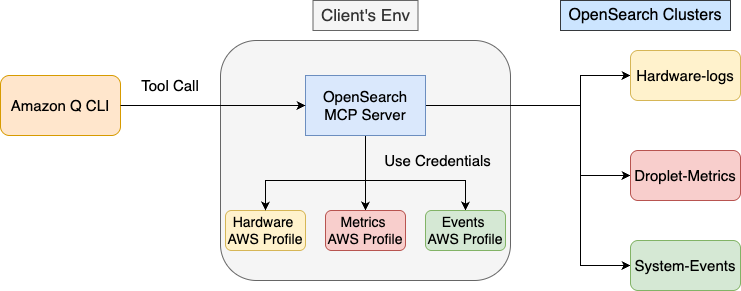
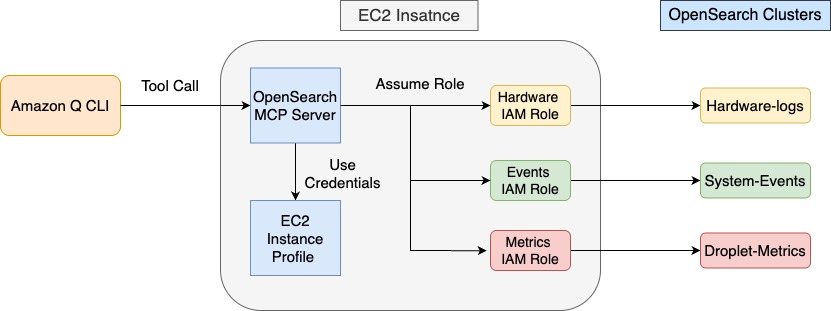
Address comments

diff --git a/_posts/2025-08-18-opensearch-mcp-server-empowering-ec2-teams-droplet-analysis.md b/_posts/2025-08-18-opensearch-mcp-server-empowering-ec2-teams-droplet-analysis.md
@@ -4,13 +4,13 @@ title: "OpenSearch MCP Server: Empowering EC2 Team's Droplet Analysis"
 authors:
     - arjunkumargiri
     - cgunawat
+    - rithinp 
     - ylwu
-    - rithinp    
 date: 2025-08-18
 categories:
     - technical-posts
 meta_keywords: "OpenSearch MCP server, Amazon Q, EC2 droplet analysis, multi-cluster connectivity, operational automation, Model Context Protocol"
-meta_description: "Learn how Amazon's EC2 team implemented OpenSearch MCP server with Amazon Q to automate droplet failure analysis across multiple OpenSearch domains, reducing investigation time from hours to minutes."
+meta_description: "Learn how Amazon's EC2 team implemented OpenSearch MCP server with Amazon Q to automate droplet failure analysis across multiple OpenSearch clusters, reducing investigation time from hours to minutes."
 twittercard:
     description: "Amazon EC2 team revolutionized droplet quality investigations using OpenSearch MCP server with Amazon Q, transforming manual processes into efficient automated workflows."
     image: /assets/img/opensearch-logo-themed.svg
@@ -19,18 +19,18 @@ twittercard:
 
 # Introduction
 
-Amazon EC2 team recently leveraged OpenSearch's Model Context Protocol (MCP) server to revolutionize their droplet quality investigations. By connecting Amazon Q with multiple OpenSearch domains simultaneously, they've transformed a previously manual, time-consuming process into an efficient, automated workflow. This blog explores how the EC2 team implemented this solution, the technical setup involved, and the impressive results they've achieved.
+Amazon EC2 team recently leveraged OpenSearch's Model Context Protocol (MCP) server to revolutionize their droplet quality investigations. By connecting Amazon Q with multiple OpenSearch clusters simultaneously, they've transformed a previously manual, time-consuming process into an efficient, automated workflow. This blog explores how the EC2 team implemented this solution, the technical setup involved, and the impressive results they've achieved.
 
 # The Challenge
 
-The EC2 team manages droplet quality across their fleet, investigating failures and impairments to maintain reliability. Their data was distributed across multiple OpenSearch domains in various regions, each storing logs for different components. Engineers faced a multi-step process when troubleshooting:
+The EC2 team manages droplet quality across their fleet, investigating failures and impairments to maintain reliability. Their data was distributed across multiple OpenSearch clusters in various regions, each storing logs for different components. Engineers faced a multi-step process when troubleshooting:
 
-* Search in one domain to find initial information
-* Use those findings to query another domain
+* Search in one cluster to find initial information
+* Use those findings to query another cluster
 * Correlate data across multiple sources
 * Repeat until root cause is identified
 
-This process required extensive domain knowledge about where to search and what patterns to look for. The team recognized that their engineers' expertise could be better utilized for solving issues rather than manually gathering and correlating data.
+This manual process required deep knowledge of data locations and search patterns. The team realized their engineers' time would be better spent solving problems rather than hunting for and correlating data across systems.
 
 # The Solution
 
@@ -38,18 +38,115 @@ The EC2 team implemented a solution combining:
 * **Amazon Q CLI** as the intelligent agent to analyze data and provide insights
 
 > **Note:** While this blog demonstrates the solution with Amazon Q CLI, you can replace it with any other agentic solution such as Claude, OpenAI, or other AI agents that support the Model Context Protocol
-* **OpenSearch MCP server** as the connectivity layer to multiple OpenSearch domains
-* **AWS profiles** for secure authentication to different clusters
+* **OpenSearch MCP Server** as the connectivity layer to multiple OpenSearch clusters
+* **EC2 instance** running the agent with an attached instance role for secure cluster access
+* **IAM-based Authentication** for secure authentication to different clusters
 
 ![OpenSearch MCP Server Architecture](/assets/media/blog-images/2025-08-18-opensearch-mcp-server-empowering-ec2-teams-droplet-analysis/mcp-architecture-diagram.png){: .img-fluid}
 
-The key innovation was leveraging OpenSearch MCP server's multi-cluster connectivity feature, which allowed them to interact with multiple OpenSearch domains through a single interface, avoiding tool proliferation that could overwhelm the agent.
+The key innovation was leveraging OpenSearch MCP Server's multi-cluster connectivity feature, which allowed them to interact with multiple OpenSearch clusters through a single interface, avoiding tool proliferation that could overwhelm the agent.
 
 # Implementation Steps
 
-## Step 1: Configure Q CLI to use OpenSearch MCP Server
+## Step 1: Set Up IAM Authentication
 
-First, the team configured Amazon Q CLI to use the OpenSearch MCP server by editing the ~/.aws/amazonq/mcp.json file:
+The EC2 team's infrastructure spans three OpenSearch clusters across different AWS accounts:
+
+1. **hardware-logs**: Stores hardware engineering data and failure events
+2. **droplet-metrics**: Contains performance metrics and system telemetry  
+3. **system-events**: Holds lifecycle events and administrative actions
+
+To securely access these distributed clusters, the team implemented an EC2 instance-based authentication solution that allows them to connect to all three clusters from a single location while maintaining proper security controls.
+
+### IAM Setup Steps:
+
+#### 1.1 Create the Three Cluster Access Roles (in Cluster Accounts)
+First, the EC2 team created the three IAM roles in their respective AWS accounts that would have access to each OpenSearch cluster. Each role needed a trust policy that would allow the EC2 instance role from the main account to assume it.
+
+**Example: Hardware Logs Cluster Role (Account: 123456789012):**
+```json
+{
+  "Version": "2012-10-17",
+  "Statement": [
+    {
+      "Effect": "Allow",
+      "Principal": {
+        "AWS": "arn:aws:iam::111111111111:role/EC2InstanceRole"
+      },
+      "Action": "sts:AssumeRole"
+    }
+  ]
+}
+```
+
+**Note:** The team created similar trust policies for the remaining two cluster roles in their respective accounts (234567890123 and 345678901234).
+
+Each role also needed a permissions policy for OpenSearch access:
+
+```json
+{
+  "Version": "2012-10-17",
+  "Statement": [
+    {
+      "Effect": "Allow",
+      "Action": [
+        "es:ESHttpGet",
+        "es:ESHttpPost",
+        "es:ESHttpPut",
+        "es:ESHttpDelete"
+      ],
+      "Resource": "arn:aws:es:REGION:ACCOUNT_ID:domain/CLUSTER_NAME/*"
+    }
+  ]
+}
+```
+
+#### 1.2 Create the EC2 Instance Role
+The team created an IAM role for the EC2 instance with the following trust policy:
+
+```json
+{
+  "Version": "2012-10-17",
+  "Statement": [
+    {
+      "Effect": "Allow",
+      "Principal": {
+        "Service": "ec2.amazonaws.com"
+      },
+      "Action": "sts:AssumeRole"
+    }
+  ]
+}
+```
+
+#### 1.3 Attach Assume Role Policy
+The team attached the following policy to the EC2 instance role to allow it to assume the cluster access roles across different AWS accounts:
+
+```json
+{
+  "Version": "2012-10-17",
+  "Statement": [
+    {
+      "Effect": "Allow",
+      "Action": "sts:AssumeRole",
+      "Resource": [
+        "arn:aws:iam::123456789012:role/hardwareLogsClusterAccessRole",
+        "arn:aws:iam::234567890123:role/dropletMetricsClusterAccessRole",
+        "arn:aws:iam::345678901234:role/systemEventsClusterAccessRole"
+      ]
+    }
+  ]
+}
+```
+
+**Note:** This policy allows the EC2 instance role to assume roles in the three cluster accounts.
+
+#### 1.4 Create Instance Profile
+The EC2 team created an instance profile and attached it to their EC2 instance during launch.
+
+## Step 2: Configure Q CLI to use OpenSearch MCP Server
+
+Next, the team configured Amazon Q CLI running on the EC2 instance to use the OpenSearch MCP Server by editing the `~/.aws/amazonq/mcp.json` file:
 
 ```json
 {
@@ -67,69 +164,52 @@ First, the team configured Amazon Q CLI to use the OpenSearch MCP server by edit
 }
 ```
 
-## Step 2: Define OpenSearch Clusters Configuration
+## Step 3: Define OpenSearch Clusters Configuration
 
-Next, they created a YAML configuration file (clusters.yml) defining all their OpenSearch domains:
+Next, they created a YAML configuration file (`clusters.yml`) defining all their OpenSearch clusters:
 
 ```yaml
 version: "1.0"
 description: "OpenSearch cluster configurations"
 
 clusters:
-    # Cluster for hardware engineering data
-    hardware-logs:
+  # Cluster for hardware engineering data (Account: 123456789012)
+  hardware-logs:
     opensearch_url: "https://<Hardware cluster URL>"
-    profile: "hardware-profile"
+    iam_arn: "arn:aws:iam::123456789012:role/hardwareLogsClusterAccessRole"
     aws_region: "us-east-1"
     
-    # Cluster for droplet metrics
-    droplet-metrics:
+  # Cluster for droplet metrics (Account: 234567890123)
+  droplet-metrics:
     opensearch_url: "https://<Metrics cluster URL>"
-    profile: "metrics-profile"
+    iam_arn: "arn:aws:iam::234567890123:role/dropletMetricsClusterAccessRole"
     aws_region: "us-west-2"
     
-    # Cluster for system events
-    system-events:
+  # Cluster for system events (Account: 345678901234)
+  system-events:
     opensearch_url: "https://<Events cluster URL>"
-    profile: "events-profile"
+    iam_arn: "arn:aws:iam::345678901234:role/systemEventsClusterAccessRole" 
     aws_region: "eu-west-1"
 ```
 
-The authentication for each cluster was managed through AWS profiles, allowing the OpenSearch MCP server to use the appropriate credentials for each cluster when needed.
+The authentication for each cluster was managed through the instance role attached to the EC2 instance. Since the clusters were in different AWS accounts, the OpenSearch MCP Server used the following authentication flow:
 
-### AWS Credentials File Structure
+* Gets credentials from the attached IAM instance role
+* Assumes the provided IAM ARN for each cluster across account boundaries
 
-To complement the cluster configuration, here's how the AWS credentials file (~/.aws/credentials) was structured to support the profile-based authentication:
+**Note:** This authentication flow works because the following trust relationships were established during infrastructure setup:
+* EC2 instance role needs permissions to assume target IAM roles (configured in Step 1.3)
+* Each target role needs to trust the EC2 instance role (configured in Step 1.1)
 
-```ini
-[hardware-profile]
-aws_access_key_id = <your-access-key-id>
-aws_secret_access_key = <your-secret-access-key>
-aws_session_token = <your-session-token>
-region = us-east-1
+**Key Benefits of This Solution:**
+* **Enhanced Security**: No static credentials stored on instances
+* **Simplified Management**: Centralized access control through IAM roles
+* **AWS Best Practices**: Follows recommended security patterns for production environments
+* **Automatic Credential Rotation**: Credentials are refreshed automatically by AWS
 
-[metrics-profile]
-aws_access_key_id = <your-access-key-id>
-aws_secret_access_key = <your-secret-access-key>
-aws_session_token = <your-session-token>
-region = us-west-2
+The OpenSearch MCP Server supports various other authentication methods like basic authentication (username/password), direct AWS credentials authentication, etc. Explore more authentication options in the [OpenSearch MCP Server documentation](https://github.com/opensearch-project/opensearch-mcp-server-py/blob/main/USER_GUIDE.md#authentication)
 
-[events-profile]
-aws_access_key_id = <your-access-key-id>
-aws_secret_access_key = <your-secret-access-key>
-aws_session_token = <your-session-token>
-region = us-west-2
-```
-
-**This profile-based approach allowed the EC2 team to:**
-* Leverage their existing AWS IAM roles and permissions
-* Maintain credential separation between different environments
-* Simplify credential rotation without modifying configuration files
-* Ensure proper access controls for each OpenSearch domain
-
-The OpenSearch MCP server supports various other authentication methods like basic authentication (username/password), direct IAM role authentication etc. Explore more authentication options in the [OpenSearch MCP Server documentation](https://github.com/opensearch-project/opensearch-mcp-server-py/blob/main/USER_GUIDE.md#authentication)
-
-## Step 3: Provide Context to Amazon Q
+## Step 4: Provide Context to Amazon Q
 
 To help Amazon Q make intelligent decisions about which clusters to query, the team provided the following context prompt to Amazon Q about the available clusters and their contents:
 
@@ -155,7 +235,7 @@ Analyze droplet failure for hardware ID ABC123 that occurred yesterday.
 
 Amazon Q's Process:
 * Amazon Q determines it needs to check multiple OpenSearch clusters
-* It makes tool calls to the OpenSearch MCP server, specifying which cluster to query:
+* It makes tool calls to the OpenSearch MCP Server, specifying which cluster to query:
 
 ```json
 {
@@ -234,17 +314,15 @@ Analysis of droplet failure for hardware ID ABC123:
 # Results and Impact
 
 The implementation has delivered significant benefits to the EC2 team:
-* Reduced investigation time: What previously took hours of manual correlation now happens in minutes
-* Improved accuracy: The systematic approach eliminates human error in data gathering
-* Knowledge democratization: Less experienced engineers can now investigate complex issues
-* Pattern recognition: Successfully classified approximately 30 previously "unknown" failures
-* Standardized analysis: Consistent format for all investigations improves team communication
+* **Reduced investigation time:** What previously took hours of manual correlation now happens in minutes
+* **Improved accuracy:** The systematic approach eliminates human error in data gathering
+* **Knowledge democratization:** Less experienced engineers can now investigate complex issues
+* **Pattern recognition:** Successfully classified approximately 30 previously "unknown" failures
+* **Standardized analysis:** Consistent format for all investigations improves team communication
 
 ## Conclusion
 
-The EC2 team has developed a system that can perform this analysis by combining OpenSearch MCP server with Amazon Q to address real-world operational challenges. Through the integration of multi-cluster connectivity features and AWS
-profile-based authentication, they've created a powerful solution designed to rapidly diagnose issues and provide
-resolution recommendations, which will significantly improve droplet quality across their fleet.
+The EC2 team has developed a system that can perform this analysis by combining OpenSearch MCP Server with Amazon Q to address real-world operational challenges. Through the integration of multi-cluster connectivity features and AWS IAM authentication, they've created a powerful solution designed to rapidly diagnose issues and provide resolution recommendations, which will significantly improve droplet quality across their fleet.
 
-This approach can be adapted by other teams facing similar challenges with distributed data sources, showing the flexibility and power of OpenSearch MCP server as a critical component in AI-assisted operations. Teams can enhance performance by implementing automated pipelines, expanding context prompts with investigation examples, and continuously refining prompts for better recommendations.
+This approach can be adapted by other teams facing similar challenges with distributed data sources, showing the flexibility and power of OpenSearch MCP Server as a critical component in AI-assisted operations. Teams can enhance performance by implementing automated pipelines, expanding context prompts with investigation examples, and continuously refining prompts for better recommendations.
 
